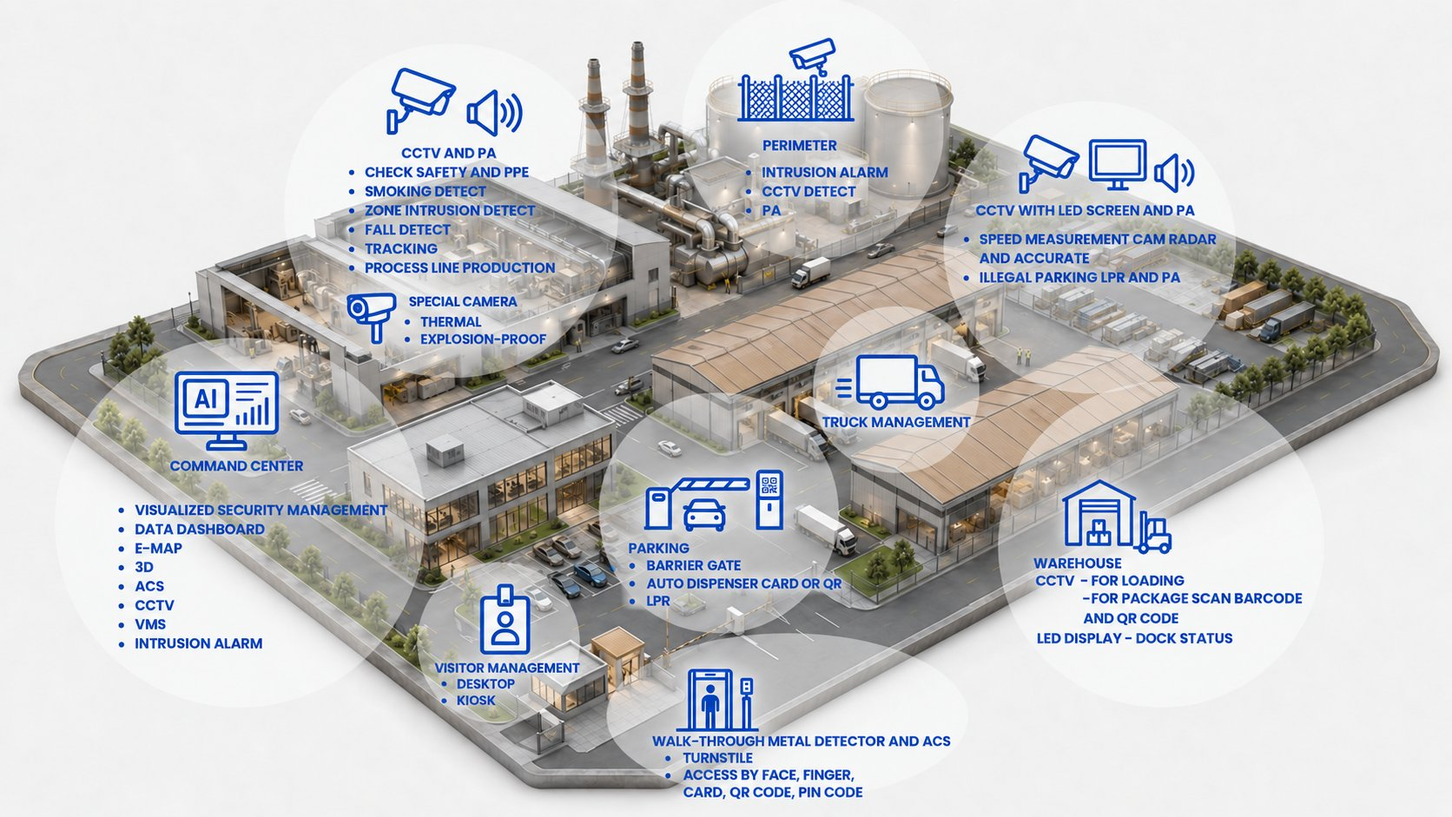
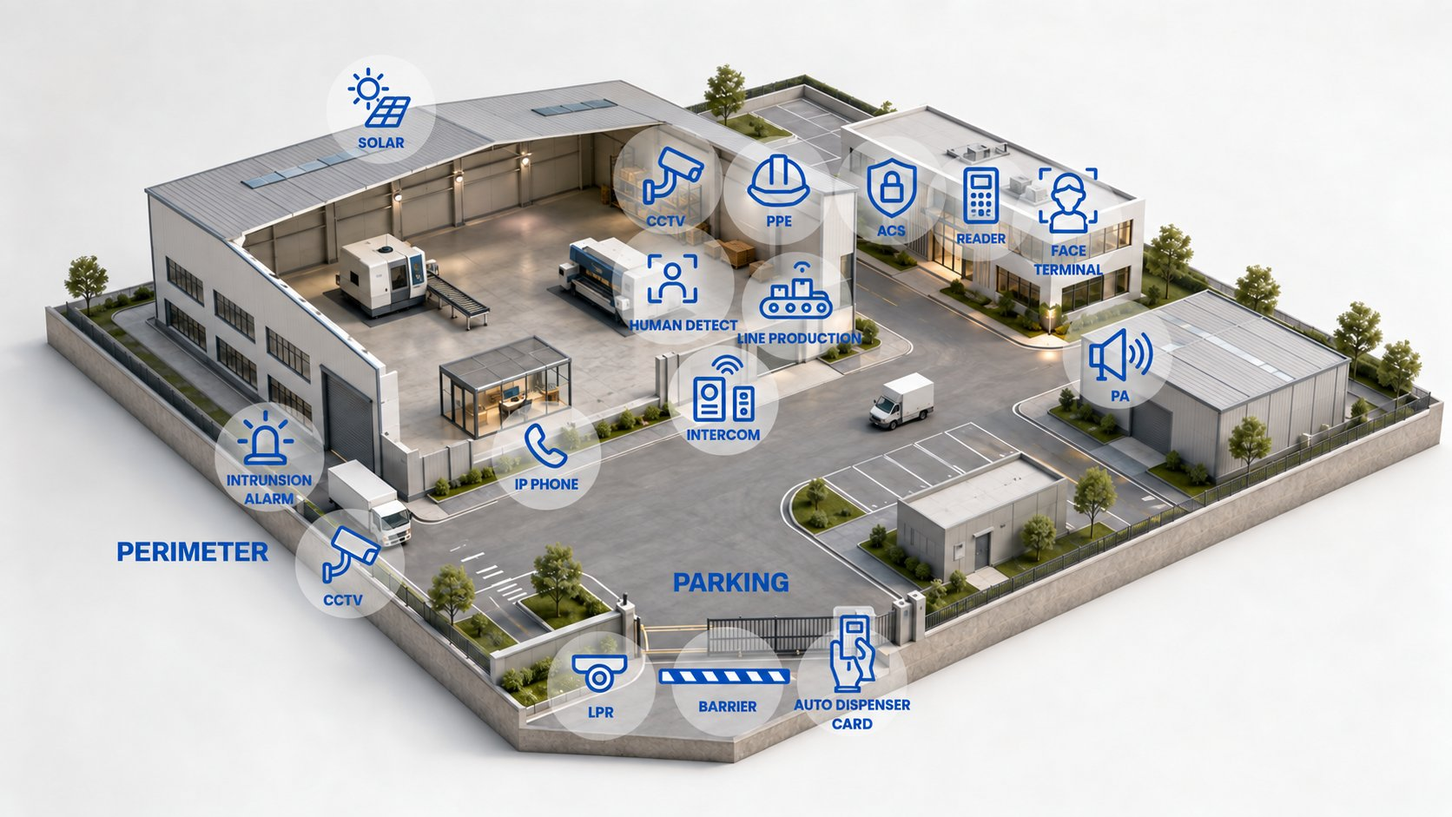
Merge projects and clients, use factory render, declutter pages
Combine the projects and clients pages into one "projects and
clients" page: featured projects, then clients by industry; on the
home page one section holds two featured projects and the client
photo wall. Show the single-site factory render in the factory tab
and the large industrial complex in the industrial estate tab, with
matching system lists. Remove the AI band from the home page and the
duplicate CTA inside the solutions showcase, and fix a stray closing
div in the showcase.

Claude-Session: https://claude.ai/code/session_0193hVdHhcWLFWGUafFTUsCs

diff --git a/digitalfocus-prototype/listed.html b/digitalfocus-prototype/listed.html
@@ -328,7 +328,7 @@ a:hover .more svg,.more:hover svg{transform:translateX(4px)}
   <div class="wrap hdr-row">
     <a class="brand" href="#home" aria-label="Digital Focus หน้าแรก"><img src="img/logo.png" alt="Digital Focus" width="773" height="347"></a>
     <nav class="nav" aria-label="เมนูหลัก"><ul>
-      <li><a href="#home">หน้าแรก</a></li><li><a href="#about">เกี่ยวกับเรา</a></li><li><a href="#business">ธุรกิจของเรา</a></li><li><a href="#solutions">โซลูชัน</a></li><li><a href="#brands">ผลิตภัณฑ์</a></li><li><a href="#projects">ผลงาน</a></li><li><a href="#clients">ลูกค้า</a></li><li><a href="#esg">ความยั่งยืน</a></li><li><a href="#contact">ติดต่อเรา</a></li>
+      <li><a href="#home">หน้าแรก</a></li><li><a href="#about">เกี่ยวกับเรา</a></li><li><a href="#business">ธุรกิจของเรา</a></li><li><a href="#solutions">โซลูชัน</a></li><li><a href="#brands">ผลิตภัณฑ์</a></li><li><a href="#projects">ผลงานและลูกค้า</a></li><li><a href="#esg">ความยั่งยืน</a></li><li><a href="#contact">ติดต่อเรา</a></li>
     </ul></nav>
     <div class="hdr-side">
       <a class="btn btn-p" href="#ir">นักลงทุนสัมพันธ์</a>
@@ -336,7 +336,7 @@ a:hover .more svg,.more:hover svg{transform:translateX(4px)}
     </div>
   </div>
   <nav class="snav" aria-label="เมนู"><div class="wrap">
-    <a href="#home">หน้าแรก</a><a href="#about">เกี่ยวกับเรา</a><a href="#business">ธุรกิจของเรา</a><a href="#solutions">โซลูชัน</a><a href="#brands">ผลิตภัณฑ์</a><a href="#projects">ผลงาน</a><a href="#clients">ลูกค้า</a><a href="#esg">ความยั่งยืน</a><a href="#ir">นักลงทุนสัมพันธ์</a><a href="#news">ข่าวสาร</a><a href="#partner">ร่วมเป็นพันธมิตร</a><a href="#contact">ติดต่อเรา</a>
+    <a href="#home">หน้าแรก</a><a href="#about">เกี่ยวกับเรา</a><a href="#business">ธุรกิจของเรา</a><a href="#solutions">โซลูชัน</a><a href="#brands">ผลิตภัณฑ์</a><a href="#projects">ผลงานและลูกค้า</a><a href="#esg">ความยั่งยืน</a><a href="#ir">นักลงทุนสัมพันธ์</a><a href="#news">ข่าวสาร</a><a href="#partner">ร่วมเป็นพันธมิตร</a><a href="#contact">ติดต่อเรา</a>
   </div></nav>
 </header>
 
@@ -431,19 +431,17 @@ a:hover .more svg,.more:hover svg{transform:translateX(4px)}
         <div class="nodes"><div class="node"><span class="ico"><svg viewBox="0 0 24 24"><rect x="3" y="4" width="18" height="12" rx="2"/><path d="M12 11v9M9 14l3-3 3 3"/></svg></span><div><b>จอสัมผัสอัจฉริยะ</b><ul><li>Interactive Display ในห้องเรียน</li></ul></div></div><div class="node"><span class="ico"><svg viewBox="0 0 24 24"><path d="M12 3a2 2 0 00-2 2v9a4 4 0 104 0V5a2 2 0 00-2-2z"/><path d="M12 9v7"/></svg></span><div><b>CCTV ตรวจจับความร้อน</b><ul><li>สำหรับห้องปฏิบัติการ</li></ul></div></div><div class="node"><span class="ico"><svg viewBox="0 0 24 24"><path d="M3 7h13v8H3zM16 10l5-2v6l-5-2M7 15v4h4"/></svg></span><div><b>CCTV Metadata</b><ul><li>ค้นหาบุคคลด้วย AI</li></ul></div></div><div class="node"><span class="ico"><svg viewBox="0 0 24 24"><path d="M4 21V9M20 21V9M4 13h16M8 9V5h8v4"/></svg></span><div><b>ประตูทางเข้าอัตโนมัติ</b><ul><li>Turnstile</li></ul></div></div><div class="node"><span class="ico"><svg viewBox="0 0 24 24"><rect x="6" y="3" width="12" height="18" rx="2"/><path d="M10 3v2h4V3"/><circle cx="12" cy="11" r="2.5"/><path d="M8.5 17a4 4 0 017 0"/></svg></span><div><b>ระบบบริหารผู้มาติดต่อ</b><ul><li>ผู้ปกครองและบุคคลภายนอก</li></ul></div></div><div class="node"><span class="ico"><svg viewBox="0 0 24 24"><circle cx="12" cy="5" r="2"/><path d="M12 7l-3 6h6M9 13l-3 7M15 13l3 7"/></svg></span><div><b>CCTV Edge AI</b><ul><li>ตรวจจับการล้ม</li><li>แจ้งเตือนเหตุผิดปกติ</li></ul></div></div><div class="node"><span class="ico"><svg viewBox="0 0 24 24"><path d="M4 9h4l5-4v14l-5-4H4zM16 9a4 4 0 010 6M18.5 6.5a8 8 0 010 11"/></svg></span><div><b>ระบบเสียงประกาศ</b><ul><li>เสียงตามสายและแจ้งเหตุฉุกเฉิน</li></ul></div></div></div>
       </div>
       <div class="vpanel" id="vp-industry" role="tabpanel" aria-labelledby="vt-industry" hidden>
-        <div class="vstage"><img src="img/sec-industry.jpg" alt="นิคมอุตสาหกรรม" loading="lazy"><div class="vcap"><b>นิคมอุตสาหกรรม</b><span>Industry · 9 ระบบ</span></div></div>
-        <p class="vdesc">นิคมอุตสาหกรรม คลังสินค้า และศูนย์กระจายสินค้า บริหารพื้นที่กว้าง ยานพาหนะ และพลังงาน</p>
-        <div class="nodes"><div class="node"><span class="ico"><svg viewBox="0 0 24 24"><path d="M4 14h16l-2 6H6zM9 14l-1 6M15 14l1 6M12 3v3M5.5 5.5l2 2M18.5 5.5l-2 2"/></svg></span><div><b>พลังงานแสงอาทิตย์</b><ul><li>Solar Rooftop</li></ul></div></div><div class="node"><span class="ico"><svg viewBox="0 0 24 24"><path d="M4 15a8 8 0 0116 0zM3 15h18v3H3zM12 7v8"/></svg></span><div><b>CCTV ตรวจ PPE</b><ul><li>ตรวจการสวมอุปกรณ์ป้องกัน</li></ul></div></div><div class="node"><span class="ico"><svg viewBox="0 0 24 24"><rect x="5" y="5" width="14" height="14" rx="2"/><path d="M9 9h6v6H9zM9 2v3M15 2v3M9 19v3M15 19v3M2 9h3M2 15h3M19 9h3M19 15h3"/></svg></span><div><b>ตรวจจับบุคคลด้วย AI</b><ul><li>Human Detection</li></ul></div></div><div class="node"><span class="ico"><svg viewBox="0 0 24 24"><rect x="3" y="14" width="18" height="4" rx="2"/><path d="M7 14V9h4v5M13 14V6h4v8"/></svg></span><div><b>กล้องในไลน์ผลิต</b><ul><li>Line Production</li></ul></div></div><div class="node"><span class="ico"><svg viewBox="0 0 24 24"><path d="M12 3l8 4v6c0 4-3.5 7-8 8-4.5-1-8-4-8-8V7z"/><circle cx="12" cy="10" r="2.5"/><path d="M8.5 16a4 4 0 017 0"/></svg></span><div><b>ระบบควบคุมการเข้าออก</b><ul><li>เครื่องอ่านบัตรและสแกนใบหน้า</li></ul></div></div><div class="node"><span class="ico"><svg viewBox="0 0 24 24"><rect x="7" y="3" width="10" height="18" rx="2"/><circle cx="12" cy="8" r="2"/><path d="M10 13h4M10 16h4"/></svg></span><div><b>Intercom และ IP Phone</b><ul><li>สื่อสารทั่วพื้นที่</li></ul></div></div><div class="node"><span class="ico"><svg viewBox="0 0 24 24"><path d="M4 9h4l5-4v14l-5-4H4zM16 9a4 4 0 010 6M18.5 6.5a8 8 0 010 11"/></svg></span><div><b>ระบบเสียงประกาศ</b><ul><li>Public Address</li></ul></div></div><div class="node"><span class="ico"><svg viewBox="0 0 24 24"><path d="M6 17V11a6 6 0 0112 0v6M4 17h16M10 20h4M12 2v2M4.5 5.5l1.5 1.5M19.5 5.5L18 7"/></svg></span><div><b>รั้วและสัญญาณกันขโมย</b><ul><li>Perimeter</li><li>Intrusion Alarm</li></ul></div></div><div class="node"><span class="ico"><svg viewBox="0 0 24 24"><rect x="4" y="3" width="10" height="10" rx="1"/><path d="M8 11V5h2.5a2 2 0 010 4H8M9 13v8"/><path d="M13 17h8l-1.5-3h-5z"/></svg></span><div><b>ระบบที่จอดรถ</b><ul><li>LPR</li><li>Barrier</li><li>เครื่องจ่ายบัตรอัตโนมัติ</li></ul></div></div></div>
+        <div class="vstage"><img src="img/sec-industry.jpg" alt="นิคมอุตสาหกรรม" loading="lazy"><div class="vcap"><b>นิคมอุตสาหกรรม</b><span>Industry · 10 ระบบ</span></div></div>
+        <p class="vdesc">นิคมอุตสาหกรรมและโรงงานขนาดใหญ่ รวมคลังสินค้าและศูนย์กระจายสินค้า บริหารพื้นที่กว้าง รถขนส่ง และศูนย์สั่งการในระบบเดียว</p>
+        <div class="nodes"><div class="node"><span class="ico"><svg viewBox="0 0 24 24"><path d="M3 7h13v8H3zM16 10l5-2v6l-5-2M7 15v4h4"/></svg></span><div><b>CCTV และเสียงประกาศ</b><ul><li>ตรวจ PPE และความปลอดภัย</li><li>ตรวจจับการสูบบุหรี่และการล้ม</li><li>บุกรุกเขตหวงห้าม</li><li>ติดตามกระบวนการผลิต</li></ul></div></div><div class="node"><span class="ico"><svg viewBox="0 0 24 24"><path d="M4 21V7l2-3 2 3v14M10 21V7l2-3 2 3v14M16 21V7l2-3 2 3v14M3 11h18M3 17h18"/></svg></span><div><b>ระบบรั้วรอบพื้นที่</b><ul><li>Intrusion Alarm</li><li>CCTV ตรวจจับ</li></ul></div></div><div class="node"><span class="ico"><svg viewBox="0 0 24 24"><path d="M12 3a2 2 0 00-2 2v9a4 4 0 104 0V5a2 2 0 00-2-2z"/><path d="M12 9v7"/></svg></span><div><b>กล้องพิเศษ</b><ul><li>กล้องความร้อน</li><li>กล้องกันระเบิด</li></ul></div></div><div class="node"><span class="ico"><svg viewBox="0 0 24 24"><circle cx="12" cy="12" r="9"/><circle cx="12" cy="12" r="5"/><path d="M12 12l6-6"/></svg></span><div><b>CCTV พร้อมจอ LED</b><ul><li>วัดความเร็วด้วยเรดาร์</li><li>จับจอดผิดที่ด้วย LPR</li></ul></div></div><div class="node"><span class="ico"><svg viewBox="0 0 24 24"><path d="M2 6h11v10H2zM13 10h4l4 4v2h-8"/><circle cx="6" cy="18" r="2"/><circle cx="17" cy="18" r="2"/></svg></span><div><b>บริหารรถขนส่ง</b><ul><li>Truck Management</li></ul></div></div><div class="node"><span class="ico"><svg viewBox="0 0 24 24"><path d="M3 8l9-5 9 5v8l-9 5-9-5zM3 8l9 5 9-5M12 13v8"/></svg></span><div><b>คลังสินค้า</b><ul><li>CCTV จุดขึ้นลงสินค้า</li><li>สแกนบาร์โค้ดและ QR Code</li><li>จอ LED สถานะ Dock</li></ul></div></div><div class="node"><span class="ico"><svg viewBox="0 0 24 24"><rect x="3" y="4" width="18" height="11" rx="1"/><path d="M7 19h10M12 15v4M7 11l3-3 3 2 4-4"/></svg></span><div><b>ศูนย์สั่งการ</b><ul><li>Dashboard และ E-Map 3D</li><li>ACS, CCTV, VMS และ Alarm</li></ul></div></div><div class="node"><span class="ico"><svg viewBox="0 0 24 24"><rect x="6" y="3" width="12" height="18" rx="2"/><path d="M10 3v2h4V3"/><circle cx="12" cy="11" r="2.5"/><path d="M8.5 17a4 4 0 017 0"/></svg></span><div><b>บริหารผู้มาติดต่อ</b><ul><li>Desktop และ Kiosk</li></ul></div></div><div class="node"><span class="ico"><svg viewBox="0 0 24 24"><path d="M6 21V4h12v17M6 9h12M10 13v4M14 13v4"/></svg></span><div><b>เครื่องตรวจโลหะและ ACS</b><ul><li>Turnstile</li><li>ใบหน้า ลายนิ้วมือ บัตร QR และ PIN</li></ul></div></div><div class="node"><span class="ico"><svg viewBox="0 0 24 24"><rect x="4" y="3" width="10" height="10" rx="1"/><path d="M8 11V5h2.5a2 2 0 010 4H8M9 13v8"/><path d="M13 17h8l-1.5-3h-5z"/></svg></span><div><b>ระบบที่จอดรถ</b><ul><li>Barrier Gate</li><li>บัตรหรือ QR อัตโนมัติ</li><li>LPR</li></ul></div></div></div>
       </div>
       <div class="vpanel" id="vp-factory" role="tabpanel" aria-labelledby="vt-factory" hidden>
-        <div class="vstage"><img src="img/sec-factory.jpg" alt="โรงงาน" loading="lazy"><div class="vcap"><b>โรงงาน</b><span>Factory · 10 ระบบ</span></div></div>
-        <p class="vdesc">โรงงานผลิต ดูแลความปลอดภัยของพนักงาน กระบวนการผลิต รถขนส่ง และคลังสินค้า</p>
-        <div class="nodes"><div class="node"><span class="ico"><svg viewBox="0 0 24 24"><path d="M3 7h13v8H3zM16 10l5-2v6l-5-2M7 15v4h4"/></svg></span><div><b>CCTV และเสียงประกาศ</b><ul><li>ตรวจ PPE และความปลอดภัย</li><li>ตรวจจับการสูบบุหรี่และการล้ม</li><li>บุกรุกเขตหวงห้าม</li><li>ติดตามกระบวนการผลิต</li></ul></div></div><div class="node"><span class="ico"><svg viewBox="0 0 24 24"><path d="M4 21V7l2-3 2 3v14M10 21V7l2-3 2 3v14M16 21V7l2-3 2 3v14M3 11h18M3 17h18"/></svg></span><div><b>ระบบรั้วรอบพื้นที่</b><ul><li>Intrusion Alarm</li><li>CCTV ตรวจจับ</li></ul></div></div><div class="node"><span class="ico"><svg viewBox="0 0 24 24"><path d="M12 3a2 2 0 00-2 2v9a4 4 0 104 0V5a2 2 0 00-2-2z"/><path d="M12 9v7"/></svg></span><div><b>กล้องพิเศษ</b><ul><li>กล้องความร้อน</li><li>กล้องกันระเบิด</li></ul></div></div><div class="node"><span class="ico"><svg viewBox="0 0 24 24"><circle cx="12" cy="12" r="9"/><circle cx="12" cy="12" r="5"/><path d="M12 12l6-6"/></svg></span><div><b>CCTV พร้อมจอ LED</b><ul><li>วัดความเร็วด้วยเรดาร์</li><li>จับจอดผิดที่ด้วย LPR</li></ul></div></div><div class="node"><span class="ico"><svg viewBox="0 0 24 24"><path d="M2 6h11v10H2zM13 10h4l4 4v2h-8"/><circle cx="6" cy="18" r="2"/><circle cx="17" cy="18" r="2"/></svg></span><div><b>บริหารรถขนส่ง</b><ul><li>Truck Management</li></ul></div></div><div class="node"><span class="ico"><svg viewBox="0 0 24 24"><path d="M3 8l9-5 9 5v8l-9 5-9-5zM3 8l9 5 9-5M12 13v8"/></svg></span><div><b>คลังสินค้า</b><ul><li>CCTV จุดขึ้นลงสินค้า</li><li>สแกนบาร์โค้ดและ QR Code</li><li>จอ LED สถานะ Dock</li></ul></div></div><div class="node"><span class="ico"><svg viewBox="0 0 24 24"><rect x="3" y="4" width="18" height="11" rx="1"/><path d="M7 19h10M12 15v4M7 11l3-3 3 2 4-4"/></svg></span><div><b>ศูนย์สั่งการ</b><ul><li>Dashboard และ E-Map 3D</li><li>ACS, CCTV, VMS และ Alarm</li></ul></div></div><div class="node"><span class="ico"><svg viewBox="0 0 24 24"><rect x="6" y="3" width="12" height="18" rx="2"/><path d="M10 3v2h4V3"/><circle cx="12" cy="11" r="2.5"/><path d="M8.5 17a4 4 0 017 0"/></svg></span><div><b>บริหารผู้มาติดต่อ</b><ul><li>Desktop และ Kiosk</li></ul></div></div><div class="node"><span class="ico"><svg viewBox="0 0 24 24"><path d="M6 21V4h12v17M6 9h12M10 13v4M14 13v4"/></svg></span><div><b>เครื่องตรวจโลหะและ ACS</b><ul><li>Turnstile</li><li>ใบหน้า ลายนิ้วมือ บัตร QR และ PIN</li></ul></div></div><div class="node"><span class="ico"><svg viewBox="0 0 24 24"><rect x="4" y="3" width="10" height="10" rx="1"/><path d="M8 11V5h2.5a2 2 0 010 4H8M9 13v8"/><path d="M13 17h8l-1.5-3h-5z"/></svg></span><div><b>ระบบที่จอดรถ</b><ul><li>Barrier Gate</li><li>บัตรหรือ QR อัตโนมัติ</li><li>LPR</li></ul></div></div></div>
+        <div class="vstage"><img src="img/sec-factory.jpg" alt="โรงงาน" loading="lazy"><div class="vcap"><b>โรงงาน</b><span>Factory · 9 ระบบ</span></div></div>
+        <p class="vdesc">โรงงานผลิต ดูแลความปลอดภัยของพนักงาน ไลน์ผลิต การเข้าออก รั้วรอบพื้นที่ ที่จอดรถ และพลังงานแสงอาทิตย์</p>
+        <div class="nodes"><div class="node"><span class="ico"><svg viewBox="0 0 24 24"><path d="M4 14h16l-2 6H6zM9 14l-1 6M15 14l1 6M12 3v3M5.5 5.5l2 2M18.5 5.5l-2 2"/></svg></span><div><b>พลังงานแสงอาทิตย์</b><ul><li>Solar Rooftop</li></ul></div></div><div class="node"><span class="ico"><svg viewBox="0 0 24 24"><path d="M4 15a8 8 0 0116 0zM3 15h18v3H3zM12 7v8"/></svg></span><div><b>CCTV ตรวจ PPE</b><ul><li>ตรวจการสวมอุปกรณ์ป้องกัน</li></ul></div></div><div class="node"><span class="ico"><svg viewBox="0 0 24 24"><rect x="5" y="5" width="14" height="14" rx="2"/><path d="M9 9h6v6H9zM9 2v3M15 2v3M9 19v3M15 19v3M2 9h3M2 15h3M19 9h3M19 15h3"/></svg></span><div><b>ตรวจจับบุคคลด้วย AI</b><ul><li>Human Detection</li></ul></div></div><div class="node"><span class="ico"><svg viewBox="0 0 24 24"><rect x="3" y="14" width="18" height="4" rx="2"/><path d="M7 14V9h4v5M13 14V6h4v8"/></svg></span><div><b>กล้องในไลน์ผลิต</b><ul><li>Line Production</li></ul></div></div><div class="node"><span class="ico"><svg viewBox="0 0 24 24"><path d="M12 3l8 4v6c0 4-3.5 7-8 8-4.5-1-8-4-8-8V7z"/><circle cx="12" cy="10" r="2.5"/><path d="M8.5 16a4 4 0 017 0"/></svg></span><div><b>ระบบควบคุมการเข้าออก</b><ul><li>เครื่องอ่านบัตรและสแกนใบหน้า</li></ul></div></div><div class="node"><span class="ico"><svg viewBox="0 0 24 24"><rect x="7" y="3" width="10" height="18" rx="2"/><circle cx="12" cy="8" r="2"/><path d="M10 13h4M10 16h4"/></svg></span><div><b>Intercom และ IP Phone</b><ul><li>สื่อสารทั่วพื้นที่</li></ul></div></div><div class="node"><span class="ico"><svg viewBox="0 0 24 24"><path d="M4 9h4l5-4v14l-5-4H4zM16 9a4 4 0 010 6M18.5 6.5a8 8 0 010 11"/></svg></span><div><b>ระบบเสียงประกาศ</b><ul><li>Public Address</li></ul></div></div><div class="node"><span class="ico"><svg viewBox="0 0 24 24"><path d="M6 17V11a6 6 0 0112 0v6M4 17h16M10 20h4M12 2v2M4.5 5.5l1.5 1.5M19.5 5.5L18 7"/></svg></span><div><b>รั้วและสัญญาณกันขโมย</b><ul><li>Perimeter</li><li>Intrusion Alarm</li></ul></div></div><div class="node"><span class="ico"><svg viewBox="0 0 24 24"><rect x="4" y="3" width="10" height="10" rx="1"/><path d="M8 11V5h2.5a2 2 0 010 4H8M9 13v8"/><path d="M13 17h8l-1.5-3h-5z"/></svg></span><div><b>ระบบที่จอดรถ</b><ul><li>LPR</li><li>Barrier</li><li>เครื่องจ่ายบัตรอัตโนมัติ</li></ul></div></div></div>
       </div>
         </div>
       </div>
-      <div class="cta" style="margin-top:56px"><div><span class="kick" style="color:var(--cyan)">ปรึกษาโครงการ</span><h2>หาโซลูชันที่เหมาะกับพื้นที่ของคุณ</h2><p>บอกเราว่าพื้นที่เป็นแบบไหน ทีมวิศวกรจะสำรวจและออกแบบระบบให้</p></div><div class="btns"><a class="btn btn-p" href="#contact">คุยเรื่องโครงการ <svg viewBox="0 0 24 24"><path d="M5 12h14M13 6l6 6-6 6"/></svg></a></div></div>
-    </div>
     </div>
   </div>
 </section>
@@ -479,7 +477,7 @@ a:hover .more svg,.more:hover svg{transform:translateX(4px)}
   </div>
 </section>
 
-<section class="sec dark" data-pages="home business">
+<section class="sec dark" data-pages="business">
   <div class="wrap split">
     <div>
       <span class="kick">เทคโนโลยี</span>
@@ -498,19 +496,15 @@ a:hover .more svg,.more:hover svg{transform:translateX(4px)}
   </div>
 </section>
 
-<section class="sec tint" data-pages="home clients">
+<section class="sec tint" id="projects" data-pages="home projects">
   <div class="wrap">
-    <div class="split" style="margin-bottom:64px" data-only="home">
-      <div>
-        <span class="kick">ผลงานทั่วประเทศ</span>
-        <h2 style="font-size:clamp(27px,3.4vw,40px);color:var(--navy-800)">กว่า 100,000 กล้องในเครือข่ายค้าปลีกที่เราวางระบบ</h2>
-        <p style="margin-top:16px;color:var(--ink-70);font-size:17px">ระบบ AI และ CCTV ใน 7-Eleven กว่า 6,500 สาขาทั่วประเทศ พร้อมโครงการของ Central Group, Big C, ปตท., รัฐสภา และการทางพิเศษแห่งประเทศไทย</p>
-        <div style="margin-top:28px"><a class="btn btn-o" href="#projects">ดูผลงานทั้งหมด <svg viewBox="0 0 24 24"><path d="M5 12h14M13 6l6 6-6 6"/></svg></a></div>
-      </div>
-      <div class="frame"><img src="img/cpall.jpg" alt="ร้าน 7-Eleven และ All Cafe" loading="lazy"></div>
+    <div data-only="home">
+      <div class="head mid"><span class="kick">ผลงานและลูกค้า</span><h2>ได้รับความไว้วางใจจากองค์กรชั้นนำ</h2><p>ระบบ AI และ CCTV ใน 7-Eleven กว่า 6,500 สาขา และโครงการของหน่วยงานรัฐ ค้าปลีก และพลังงานทั่วประเทศ</p></div>
+    <div class="g2" >
+      <a class="svc" href="#projects"><div class="svc-img"><img src="img/parliament.jpg" alt="รัฐสภา" loading="lazy"></div><div class="svc-body"><span class="pill">ส่งมอบแล้ว</span><h3>รัฐสภา — ระบบกล้องอ่านป้ายทะเบียน</h3><p>ตรวจจับและบันทึกป้ายทะเบียนรถทุกคันที่เข้าพื้นที่ ดำเนินโครงการปี 2022–2023</p><span class="more">ดูโครงการ <svg viewBox="0 0 24 24"><path d="M5 12h14M13 6l6 6-6 6"/></svg></span></div></a>
+      <a class="svc" href="#projects"><div class="svc-img"><img src="img/gowholesale.jpg" alt="Central GO Wholesale" loading="lazy"></div><div class="svc-body"><span class="pill">ส่งมอบแล้ว</span><h3>Central Food Retail และ Central GO Wholesale</h3><p>ระบบ CCTV ทุกสาขาของ Tops Market, Tops Daily, Central Food Hall และ Central GO Wholesale ปี 2016–2025</p><span class="more">ดูโครงการ <svg viewBox="0 0 24 24"><path d="M5 12h14M13 6l6 6-6 6"/></svg></span></div></a>
     </div>
-    <div class="head mid" style="margin-bottom:28px"><h2 style="font-size:clamp(22px,2.6vw,28px)">ได้รับความไว้วางใจจาก</h2></div>
-    <div class="logos">
+    <div class="logos" style="margin-top:24px">
       <div><img src="img/cpall.jpg" alt="" loading="lazy"><span class="nm">CP ALL (7-Eleven)</span></div>
       <div><img src="img/central.jpg" alt="" loading="lazy"><span class="nm">Central Department Store</span></div>
       <div><img src="img/gowholesale.jpg" alt="" loading="lazy"><span class="nm">Central Food Retail</span></div>
@@ -524,36 +518,28 @@ a:hover .more svg,.more:hover svg{transform:translateX(4px)}
       <div><img src="img/chatramue.jpg" alt="" loading="lazy"><span class="nm">ชาตรามือ</span></div>
       <div><img src="img/talaadthai.jpg" alt="" loading="lazy"><span class="nm">ตลาดไท</span></div>
     </div>
-  </div>
-</section>
-
-<section class="sec" data-pages="clients">
-  <div class="wrap">
-    <div class="head"><span class="kick">กลุ่มลูกค้า</span><h2>ลูกค้าของเราแยกตามอุตสาหกรรม</h2></div>
-    <div class="g2">
-      <div class="card"><div class="ico"><svg viewBox="0 0 24 24"><path d="M3 21h18M5 21V10l7-5 7 5v11M9 21v-6h6v6"/></svg></div><h3>หน่วยงานภาครัฐ</h3><ul class="flist"><li><span class="tick"><svg viewBox="0 0 24 24"><path d="M5 12.5l4.5 4.5L19 7.5"/></svg></span>รัฐสภา</li><li><span class="tick"><svg viewBox="0 0 24 24"><path d="M5 12.5l4.5 4.5L19 7.5"/></svg></span>การทางพิเศษแห่งประเทศไทย</li><li><span class="tick"><svg viewBox="0 0 24 24"><path d="M5 12.5l4.5 4.5L19 7.5"/></svg></span>สำนักงานส่งเสริมเศรษฐกิจดิจิทัล (depa)</li></ul></div>
-      <div class="card"><div class="ico"><svg viewBox="0 0 24 24"><path d="M3 9l1.5-5h15L21 9M4 9v11h16V9M3 9h18M9 20v-6h6v6"/></svg></div><h3>ค้าปลีกและห้างสรรพสินค้า</h3><ul class="flist"><li><span class="tick"><svg viewBox="0 0 24 24"><path d="M5 12.5l4.5 4.5L19 7.5"/></svg></span>CP ALL (7-Eleven)</li><li><span class="tick"><svg viewBox="0 0 24 24"><path d="M5 12.5l4.5 4.5L19 7.5"/></svg></span>Central Department Store, Central Food Retail, Central Trading, Robinson</li><li><span class="tick"><svg viewBox="0 0 24 24"><path d="M5 12.5l4.5 4.5L19 7.5"/></svg></span>Big C และ BJC, CMG Group, แว่นท็อปเจริญ</li></ul></div>
-      <div class="card"><div class="ico"><svg viewBox="0 0 24 24"><path d="M13 2L4 14h7l-1 8 9-12h-7z"/></svg></div><h3>พลังงาน ยานยนต์ และการเงิน</h3><ul class="flist"><li><span class="tick"><svg viewBox="0 0 24 24"><path d="M5 12.5l4.5 4.5L19 7.5"/></svg></span>ปตท., PT และ PT Genergy</li><li><span class="tick"><svg viewBox="0 0 24 24"><path d="M5 12.5l4.5 4.5L19 7.5"/></svg></span>Banpu</li><li><span class="tick"><svg viewBox="0 0 24 24"><path d="M5 12.5l4.5 4.5L19 7.5"/></svg></span>GWM, Toyota Buzz, TISCO, สมหวัง</li></ul></div>
-      <div class="card"><div class="ico"><svg viewBox="0 0 24 24"><path d="M4 10h16l-1 10H5zM8 10V7a4 4 0 018 0v3"/></svg></div><h3>ร้านอาหาร ตลาด และที่จอดรถ</h3><ul class="flist"><li><span class="tick"><svg viewBox="0 0 24 24"><path d="M5 12.5l4.5 4.5L19 7.5"/></svg></span>ชาตรามือ, Bar B Q Plaza, พันธุ์ไทย</li><li><span class="tick"><svg viewBox="0 0 24 24"><path d="M5 12.5l4.5 4.5L19 7.5"/></svg></span>ตลาดไท, ตลาดสี่มุมเมือง</li><li><span class="tick"><svg viewBox="0 0 24 24"><path d="M5 12.5l4.5 4.5L19 7.5"/></svg></span>J-Park ที่จอดรถ MRT</li></ul></div>
-    </div>
-  </div>
-</section>
-
-<section class="sec" data-pages="home projects">
-  <div class="wrap">
-    <div class="head" data-only="home"><span class="kick">ผลงานล่าสุด</span><h2>โครงการเด่นที่ส่งมอบแล้ว</h2></div>
-    <div class="g2" data-only="home">
-      <a class="svc" href="#projects"><div class="svc-img"><img src="img/parliament.jpg" alt="รัฐสภา" loading="lazy"></div><div class="svc-body"><span class="pill">ส่งมอบแล้ว</span><h3>รัฐสภา — ระบบกล้องอ่านป้ายทะเบียน</h3><p>ตรวจจับและบันทึกป้ายทะเบียนรถทุกคันที่เข้าพื้นที่ ดำเนินโครงการปี 2022–2023</p><span class="more">ดูโครงการ <svg viewBox="0 0 24 24"><path d="M5 12h14M13 6l6 6-6 6"/></svg></span></div></a>
-      <a class="svc" href="#projects"><div class="svc-img"><img src="img/gowholesale.jpg" alt="Central GO Wholesale" loading="lazy"></div><div class="svc-body"><span class="pill">ส่งมอบแล้ว</span><h3>Central Food Retail และ Central GO Wholesale</h3><p>ระบบ CCTV ทุกสาขาของ Tops Market, Tops Daily, Central Food Hall และ Central GO Wholesale ปี 2016–2025</p><span class="more">ดูโครงการ <svg viewBox="0 0 24 24"><path d="M5 12h14M13 6l6 6-6 6"/></svg></span></div></a>
+      <div style="margin-top:36px;text-align:center"><a class="btn btn-o" href="#projects">ดูผลงานและลูกค้าทั้งหมด <svg viewBox="0 0 24 24"><path d="M5 12h14M13 6l6 6-6 6"/></svg></a></div>
     </div>
     <div data-only="projects">
+      <div class="head"><span class="kick">โครงการเด่น</span><h2>โครงการที่เราวางระบบ</h2></div>
       <div class="proj"><div class="im"><img src="img/cpall.jpg" alt="ร้าน 7-Eleven" loading="lazy"></div><div class="bd"><span class="pill">ส่งมอบแล้ว</span><h3>CP ALL (7-Eleven) ทั่วประเทศ</h3><p class="sub">ระบบ AI และ CCTV ของ Hikvision · 2018–2023</p><p>ติดตั้งในร้าน 7-Eleven กรุงเทพฯ และต่างจังหวัด รวมศูนย์กระจายสินค้าทั่วประเทศ</p><ul class="spec"><li><b>6,500+</b><span>สาขา</span></li><li><b>100,000+</b><span>กล้อง</span></li><li><b>6 ปี</b><span>ระยะเวลาโครงการ</span></li></ul></div></div>
       <div class="proj"><div class="im"><img src="img/gowholesale.jpg" alt="Central GO Wholesale" loading="lazy"></div><div class="bd"><span class="pill">ส่งมอบแล้ว</span><h3>Central Food Retail และ Central GO Wholesale</h3><p class="sub">ระบบ CCTV ทุกสาขา · 2016–2025</p><p>ครอบคลุม Tops Market, Tops Daily, Central Food Hall และ Central GO Wholesale</p><ul class="spec"><li><b>ทุกสาขา</b><span>ทั่วประเทศ</span></li><li><b>4</b><span>แบรนด์ค้าปลีก</span></li><li><b>10 ปี</b><span>ระยะเวลาโครงการ</span></li></ul></div></div>
       <div class="proj"><div class="im"><img src="img/exat.jpg" alt="ทางพิเศษ" loading="lazy"></div><div class="bd"><span class="pill">ส่งมอบแล้ว</span><h3>การทางพิเศษแห่งประเทศไทย และรัฐสภา</h3><p class="sub">ระบบกล้องอ่านป้ายทะเบียน (LPR) · ภาครัฐ</p><p>บันทึกป้ายทะเบียนรถบนทางพิเศษ และรถทุกคันที่เข้าพื้นที่รัฐสภา (2022–2023)</p><ul class="spec"><li><b>216</b><span>กล้อง LPR (กทพ.)</span></li><li><b>9MP</b><span>ความละเอียดสูงสุด</span></li><li><b>2</b><span>หน่วยงานรัฐ</span></li></ul></div></div>
       <div class="proj"><div class="im"><img src="img/bigc.jpg" alt="Big C" loading="lazy"></div><div class="bd"><span class="pill">ส่งมอบแล้ว</span><h3>Big C และ BJC</h3><p class="sub">เปลี่ยนระบบ NVR และ DVR เป็น Hikvision · ค้าปลีก</p><p>ยกระดับระบบกล้องทั่วเครือข่าย บันทึกภาพในสาขาและบริหารผ่าน HikCentral</p><ul class="spec"><li><b>20,000+</b><span>กล้อง</span></li><li><b>1,500</b><span>สาขา</span></li><li><b>HCP</b><span>แพลตฟอร์มบริหาร</span></li></ul></div></div>
       <div class="proj"><div class="im"><img src="img/ptt.jpg" alt="รถขนส่งน้ำมัน ปตท." loading="lazy"></div><div class="bd"><span class="pill">ส่งมอบแล้ว</span><h3>ปตท. — กล้องบนรถขนส่งน้ำมัน</h3><p class="sub">ระบบกล้องบนยานพาหนะ · พลังงาน · 2018</p><p>ติดตั้งระบบกล้องบนรถขนส่งน้ำมันของ บริษัท ปตท. จำกัด (มหาชน) ทั้งกองรถ</p><ul class="spec"><li><b>1,500</b><span>คัน</span></li><li><b>2018</b><span>ปีที่ส่งมอบ</span></li><li><b>กองรถ</b><span>ทั่วประเทศ</span></li></ul></div></div>
       <div class="proj"><div class="im"><img src="img/talaadthai.jpg" alt="ตลาดไท" loading="lazy"></div><div class="bd"><span class="pill">ส่งมอบแล้ว</span><h3>ตลาดไท และตลาดสี่มุมเมือง</h3><p class="sub">ระบบอ่านป้ายทะเบียน (ANPR) · ตลาด</p><p>อ่านป้ายทะเบียนรถเข้าออกพื้นที่ตลาด บริหารจัดการผ่านแพลตฟอร์ม HikCentral</p><ul class="spec"><li><b>ANPR</b><span>อ่านป้ายทะเบียน</span></li><li><b>HCP</b><span>แพลตฟอร์มบริหาร</span></li><li><b>2</b><span>ตลาดค้าส่ง</span></li></ul></div></div>
-      <p style="margin-top:30px;text-align:center;color:var(--ink-45)">ผลงานอื่น ๆ: Central Trading · Robinson · Banpu · GWM · ชาตรามือ · Bar B Q Plaza · รถพยาบาล 5G กับ depa</p>
+    </div>
+  </div>
+</section>
+
+<section class="sec" data-pages="projects">
+  <div class="wrap">
+    <div class="head"><span class="kick">ลูกค้าของเรา</span><h2>ลูกค้าแยกตามอุตสาหกรรม</h2><p>รวมผลงานอื่น ๆ เช่น Central Trading, Robinson, Banpu, GWM, ชาตรามือ, Bar B Q Plaza และรถพยาบาล 5G กับ depa</p></div>
+    <div class="g2">
+      <div class="card"><div class="ico"><svg viewBox="0 0 24 24"><path d="M3 21h18M5 21V10l7-5 7 5v11M9 21v-6h6v6"/></svg></div><h3>หน่วยงานภาครัฐ</h3><ul class="flist"><li><span class="tick"><svg viewBox="0 0 24 24"><path d="M5 12.5l4.5 4.5L19 7.5"/></svg></span>รัฐสภา</li><li><span class="tick"><svg viewBox="0 0 24 24"><path d="M5 12.5l4.5 4.5L19 7.5"/></svg></span>การทางพิเศษแห่งประเทศไทย</li><li><span class="tick"><svg viewBox="0 0 24 24"><path d="M5 12.5l4.5 4.5L19 7.5"/></svg></span>สำนักงานส่งเสริมเศรษฐกิจดิจิทัล (depa)</li></ul></div>
+      <div class="card"><div class="ico"><svg viewBox="0 0 24 24"><path d="M3 9l1.5-5h15L21 9M4 9v11h16V9M3 9h18M9 20v-6h6v6"/></svg></div><h3>ค้าปลีกและห้างสรรพสินค้า</h3><ul class="flist"><li><span class="tick"><svg viewBox="0 0 24 24"><path d="M5 12.5l4.5 4.5L19 7.5"/></svg></span>CP ALL (7-Eleven)</li><li><span class="tick"><svg viewBox="0 0 24 24"><path d="M5 12.5l4.5 4.5L19 7.5"/></svg></span>Central Department Store, Central Food Retail, Central Trading, Robinson</li><li><span class="tick"><svg viewBox="0 0 24 24"><path d="M5 12.5l4.5 4.5L19 7.5"/></svg></span>Big C และ BJC, CMG Group, แว่นท็อปเจริญ</li></ul></div>
+      <div class="card"><div class="ico"><svg viewBox="0 0 24 24"><path d="M13 2L4 14h7l-1 8 9-12h-7z"/></svg></div><h3>พลังงาน ยานยนต์ และการเงิน</h3><ul class="flist"><li><span class="tick"><svg viewBox="0 0 24 24"><path d="M5 12.5l4.5 4.5L19 7.5"/></svg></span>ปตท., PT และ PT Genergy</li><li><span class="tick"><svg viewBox="0 0 24 24"><path d="M5 12.5l4.5 4.5L19 7.5"/></svg></span>Banpu</li><li><span class="tick"><svg viewBox="0 0 24 24"><path d="M5 12.5l4.5 4.5L19 7.5"/></svg></span>GWM, Toyota Buzz, TISCO, สมหวัง</li></ul></div>
+      <div class="card"><div class="ico"><svg viewBox="0 0 24 24"><path d="M4 10h16l-1 10H5zM8 10V7a4 4 0 018 0v3"/></svg></div><h3>ร้านอาหาร ตลาด และที่จอดรถ</h3><ul class="flist"><li><span class="tick"><svg viewBox="0 0 24 24"><path d="M5 12.5l4.5 4.5L19 7.5"/></svg></span>ชาตรามือ, Bar B Q Plaza, พันธุ์ไทย</li><li><span class="tick"><svg viewBox="0 0 24 24"><path d="M5 12.5l4.5 4.5L19 7.5"/></svg></span>ตลาดไท, ตลาดสี่มุมเมือง</li><li><span class="tick"><svg viewBox="0 0 24 24"><path d="M5 12.5l4.5 4.5L19 7.5"/></svg></span>J-Park ที่จอดรถ MRT</li></ul></div>
     </div>
   </div>
 </section>
@@ -768,7 +754,7 @@ a:hover .more svg,.more:hover svg{transform:translateX(4px)}
   </div>
 </section>
 
-<section class="sec" data-pages="home business solutions projects clients brands esg news about">
+<section class="sec" data-pages="home business solutions projects brands esg news about">
   <div class="wrap">
     <div class="cta">
       <div><h2>มีพื้นที่ที่อยากให้ปลอดภัยและฉลาดขึ้น?</h2><p>ทีมวิศวกรของเราจะประเมินพื้นที่ วิเคราะห์ความเสี่ยง และเสนอระบบที่เหมาะกับงบประมาณ ทั้งแบบซื้อขาดและบริการรายเดือน</p></div>
@@ -787,7 +773,7 @@ a:hover .more svg,.more:hover svg{transform:translateX(4px)}
         <div class="social" id="social"></div>
       </div>
       <div><h4>บริษัท</h4><ul><li><a href="#about">เกี่ยวกับเรา</a></li><li><a href="#esg">ความยั่งยืน</a></li><li><a href="#news">ข่าวสาร</a></li><li><a href="#ir">นักลงทุนสัมพันธ์</a></li><li><a href="#partner">ร่วมเป็นพันธมิตร</a></li><li><a href="#contact">ติดต่อเรา</a></li></ul></div>
-      <div><h4>ธุรกิจ</h4><ul><li><a href="#solutions">โซลูชัน</a></li><li><a href="#brands">ผลิตภัณฑ์</a></li><li><a href="#projects">ออกแบบและวางระบบ</a></li><li><a href="#business">บริการรายเดือน</a></li><li><a href="#clients">ลูกค้า</a></li><li><a href="https://shopee.co.th/digitalfocus_thailand" target="_blank" rel="noopener">ร้านค้าออนไลน์</a></li></ul></div>
+      <div><h4>ธุรกิจ</h4><ul><li><a href="#solutions">โซลูชัน</a></li><li><a href="#brands">ผลิตภัณฑ์</a></li><li><a href="#projects">ออกแบบและวางระบบ</a></li><li><a href="#business">บริการรายเดือน</a></li><li><a href="#projects">ผลงานและลูกค้า</a></li><li><a href="https://shopee.co.th/digitalfocus_thailand" target="_blank" rel="noopener">ร้านค้าออนไลน์</a></li></ul></div>
       <div><h4>ติดต่อ</h4><ul><li>2782/4-6 ถนนลาดพร้าว แขวงคลองจั่น เขตบางกะปิ กรุงเทพฯ 10240</li><li><a href="tel:021368989">02 136 8989</a></li><li><a href="mailto:info@digitalfocus.co.th">info@digitalfocus.co.th</a></li></ul></div>
     </div>
     <div class="ftr-bot"><span>© 2026 บริษัท ดิจิตอลโฟกัส จำกัด สงวนลิขสิทธิ์</span><span>ทะเบียนเลขที่ 0105545026907 · เตรียมเข้าจดทะเบียนในตลาดหลักทรัพย์ฯ</span></div>
@@ -818,8 +804,7 @@ a:hover .more svg,.more:hover svg{transform:translateX(4px)}
     about:['เกี่ยวกับเรา','จากผู้จำหน่ายกล้องวงจรปิด สู่ผู้นำ Security & Smart Solutions','ธุรกิจครอบครัวไทยที่เติบโตมากว่า 24 ปี ด้วยคุณภาพสินค้า ทีมวิศวกร และบริการหลังการขาย'],
     business:['ธุรกิจของเรา','ครบตั้งแต่อุปกรณ์ วางระบบ จนถึงบริการ','จัดจำหน่ายอุปกรณ์ ออกแบบและวางระบบ แพลตฟอร์ม และบริการรายเดือน ที่เสริมกันเป็นระบบเดียว'],
     solutions:['โซลูชัน','โซลูชันสำหรับทุกอุตสาหกรรม','ออกแบบและวางระบบให้เหมาะกับธุรกิจของคุณ ทั้งอาคาร เมือง การจราจร การขนส่ง โรงงาน ค้าปลีก การศึกษา และบ้าน'],
-    projects:['ผลงาน','โครงการที่เราวางระบบ','จากเครือข่ายค้าปลีกหลายพันสาขา ถึงระบบอ่านป้ายทะเบียนของหน่วยงานรัฐ'],
-    clients:['ลูกค้า','ได้รับความไว้วางใจจากทั้งภาครัฐและเอกชน','ด้วยประสบการณ์กว่า 24 ปี บริษัทได้รับความไว้วางใจในคุณภาพสินค้า ความเป็นมืออาชีพของทีมงาน และบริการหลังการขาย'],
+    projects:['ผลงานและลูกค้า','ผลงานและลูกค้าของเรา','โครงการที่เราวางระบบให้องค์กรชั้นนำทั้งภาครัฐและเอกชนทั่วประเทศ ตั้งแต่ค้าปลีกหลายพันสาขาถึงหน่วยงานรัฐ'],
     brands:['ผลิตภัณฑ์','ผลิตภัณฑ์และแบรนด์ที่เราจัดจำหน่าย','ตัวแทนจำหน่าย Hikvision อย่างเป็นทางการรายแรกของไทย พร้อมพันธมิตรด้าน AIoT, Smart Home และ Robotics'],
     esg:['ความยั่งยืน','ความยั่งยืนที่อยู่ในทุกกระบวนการดำเนินงาน','ดูแลสิ่งแวดล้อมในองค์กร พัฒนาฝีมือแรงงาน สนับสนุนการศึกษา คืนสู่ชุมชน และกำกับดูแลกิจการอย่างโปร่งใส'],
     ir:['นักลงทุนสัมพันธ์','นักลงทุนสัมพันธ์','ข้อมูลสำหรับนักลงทุน ระหว่างที่บริษัทเตรียมเข้าจดทะเบียนในตลาดหลักทรัพย์แห่งประเทศไทย'],
@@ -841,6 +826,7 @@ a:hover .more svg,.more:hover svg{transform:translateX(4px)}
     });
   }
   function go(page,scroll){
+    if(page==='clients') page='projects';
     if(!PAGES[page]) page='home';
     secs.forEach(function(el){
       if(el===phero){el.hidden=page==='home';return}
